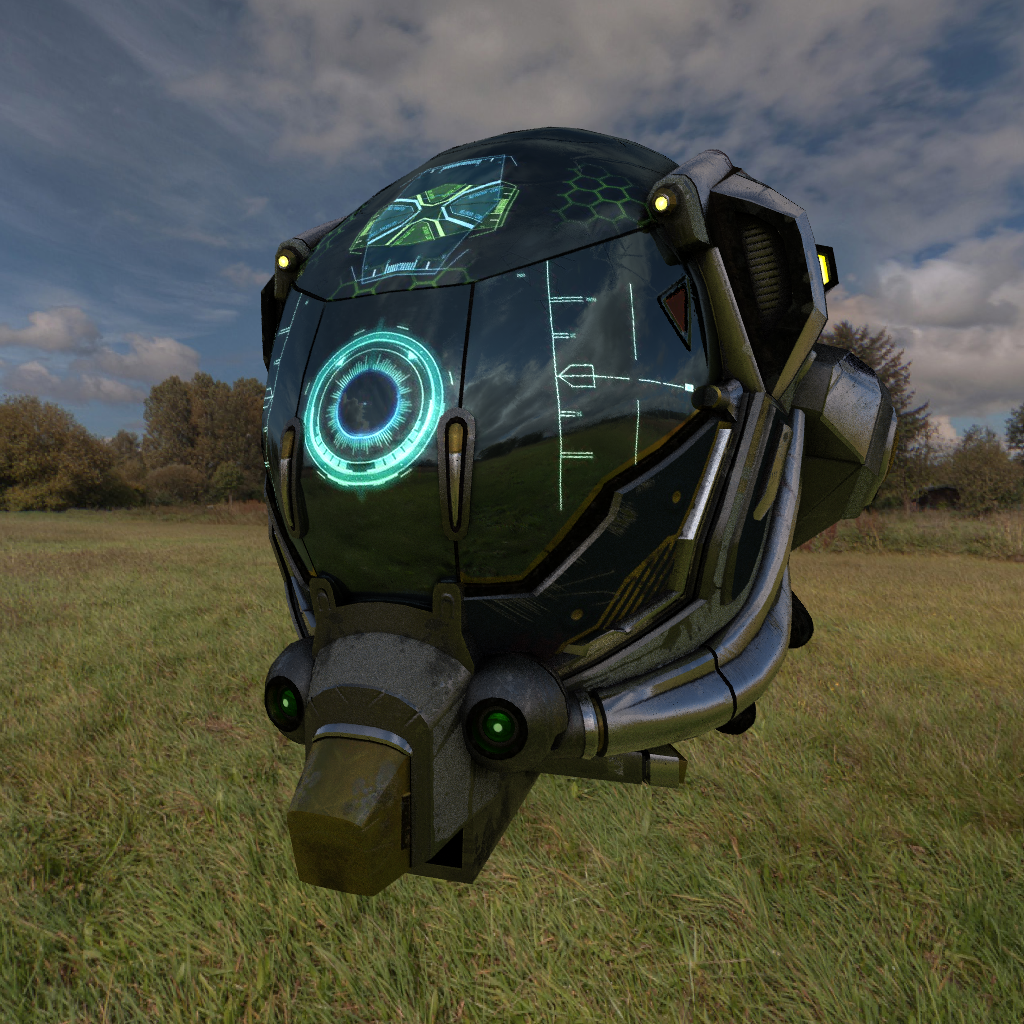
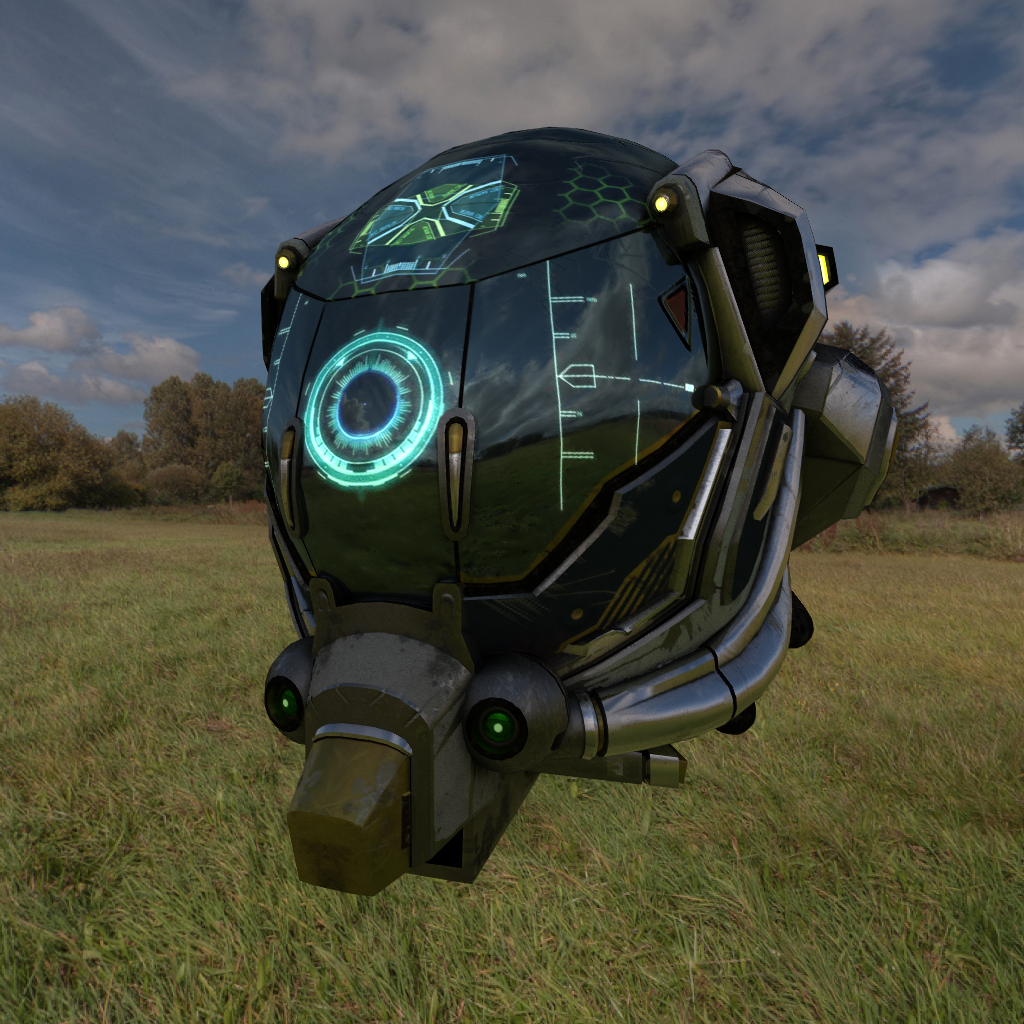
Added bilinear texture sampling

diff --git a/raytracer.c b/raytracer.c
@@ -2,7 +2,7 @@
 
 #define WIDTH       (1024)
 #define HEIGHT      (1024)
-#define SAMPLES     (16)
+#define SAMPLES     (128)
 #define MAX_BOUNCES 8
 #define USE_BVH     1
 #define USE_THREADS 1
@@ -15,6 +15,9 @@
 #define CHUNKS_X ((WIDTH  + CHUNK_SIZE - 1) / CHUNK_SIZE)
 #define CHUNKS_Y ((HEIGHT + CHUNK_SIZE - 1) / CHUNK_SIZE)
 #define N_CHUNKS (CHUNKS_X * CHUNKS_Y)
+
+// #define sample_texture sample_texture_nearest
+#define sample_texture sample_texture_bilinear
 
 internal thread_local u32 random_state = 0;
 
@@ -607,7 +610,7 @@ internal inline void ray_spheres_hit(Ray *ray, Spheres *spheres, Hit *hit) {
   }
 }
 
-internal Vec3 sample_texture(Image *texture, Vec2 tex_coords) {
+internal Vec3 sample_texture_nearest(Image *texture, Vec2 tex_coords) {
   isize u = tex_coords.x * texture->width;
   if (u >= texture->width) {
     u = texture->width - 1;
@@ -621,6 +624,68 @@ internal Vec3 sample_texture(Image *texture, Vec2 tex_coords) {
     IDX(texture->pixels, texture->components * (u + texture->width * v) + 0) / 255.0f,
     IDX(texture->pixels, texture->components * (u + texture->width * v) + 1) / 255.0f,
     IDX(texture->pixels, texture->components * (u + texture->width * v) + 2) / 255.0f,
+  );
+}
+
+internal Vec3 sample_texture_bilinear(Image *texture, Vec2 tex_coords) {
+  isize u = tex_coords.x * texture->width;
+  if (u >= texture->width) {
+    u = texture->width - 1;
+  }
+  isize v = (1 - tex_coords.y) * texture->height;
+  if (v >= texture->height) {
+    v = texture->height - 1;
+  }
+
+  isize u2 = u + 1;
+  if (u2 >= texture->width) {
+    u2 = texture->width - 1;
+  }
+  isize v2 = v + 1;
+  if (v2 >= texture->height) {
+    v2 = texture->height - 1;
+  }
+
+  f32 a = fract_f32(tex_coords.x * texture->width);
+  f32 b = fract_f32(tex_coords.y * texture->height);
+
+  return vec3_add(
+    vec3_add(
+      vec3_scale(
+        vec3(
+          IDX(texture->pixels, texture->components * (u  + texture->width * v ) + 0) / 255.0f,
+          IDX(texture->pixels, texture->components * (u  + texture->width * v ) + 1) / 255.0f,
+          IDX(texture->pixels, texture->components * (u  + texture->width * v ) + 2) / 255.0f,
+        ),
+        (1.0f - a) * (1.0f - b)
+      ),
+      vec3_scale(
+        vec3(
+          IDX(texture->pixels, texture->components * (u  + texture->width * v2) + 0) / 255.0f,
+          IDX(texture->pixels, texture->components * (u  + texture->width * v2) + 1) / 255.0f,
+          IDX(texture->pixels, texture->components * (u  + texture->width * v2) + 2) / 255.0f,
+        ),
+        (1.0f - a) * b
+      )
+    ),
+    vec3_add(
+      vec3_scale(
+        vec3(
+          IDX(texture->pixels, texture->components * (u2 + texture->width * v ) + 0) / 255.0f,
+          IDX(texture->pixels, texture->components * (u2 + texture->width * v ) + 1) / 255.0f,
+          IDX(texture->pixels, texture->components * (u2 + texture->width * v ) + 2) / 255.0f,
+        ),
+        a * (1.0f - b)
+      ),
+      vec3_scale(
+        vec3(
+          IDX(texture->pixels, texture->components * (u2 + texture->width * v2) + 0) / 255.0f,
+          IDX(texture->pixels, texture->components * (u2 + texture->width * v2) + 1) / 255.0f,
+          IDX(texture->pixels, texture->components * (u2 + texture->width * v2) + 2) / 255.0f,
+        ),
+        a * b
+      )
+    )
   );
 }
 
